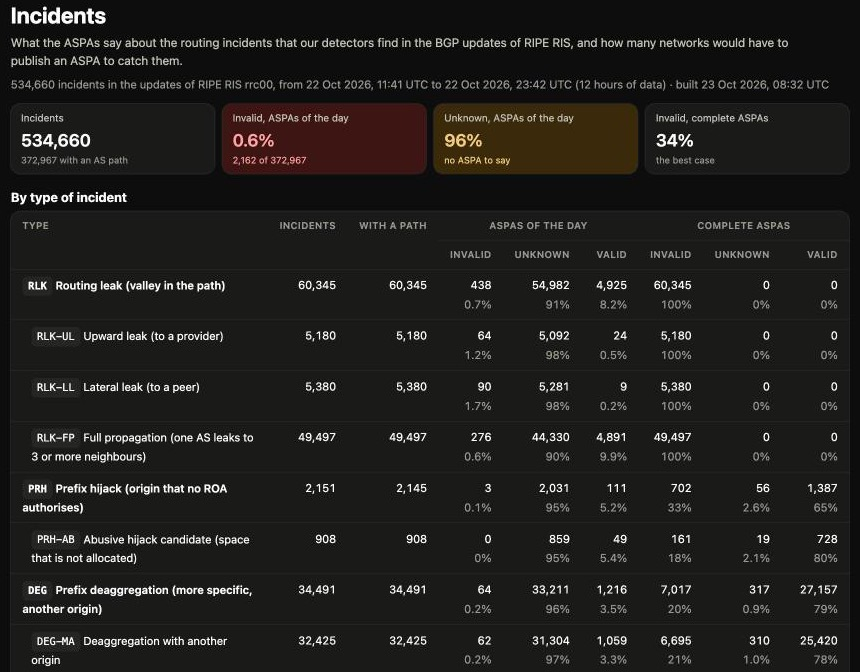
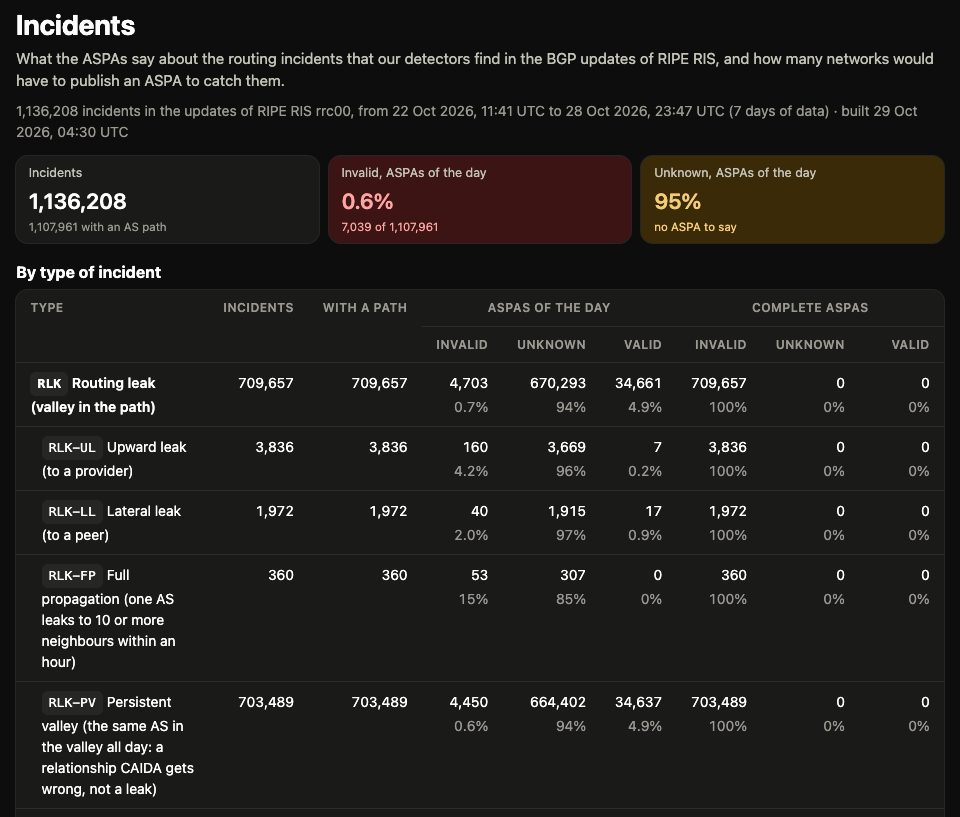
Screenshots of the Incidents page, its chart, the routing registry and the tromboning test (with RIPE Atlas) taken again, with the descriptions in the README

diff --git a/README.md b/README.md
@@ -30,7 +30,7 @@
 
 <table>
   <tr>
-    <td width="50%"><img src="assets/screenshots/lookup-light.jpg" alt="Looking up AS680: its own ASPA and the ASPAs that name it as a provider, with its history and the AS path check below"></td>
+    <td width="50%"><img src="assets/screenshots/lookup-light.jpg" alt="Looking up AS680: its own ASPA and the ASPAs that name it as a provider, with its history"></td>
     <td width="50%"><img src="assets/screenshots/statistics-dark.jpg" alt="The statistics page in the dark theme: ASPAs over time, stacked by RIR, and the other charts"></td>
   </tr>
   <tr>
@@ -136,10 +136,10 @@
     <td colspan="2" align="center"><sub>Availability by month and the alerts on the status page</sub></td>
   </tr>
   <tr>
-    <td colspan="2" align="center"><img src="assets/screenshots/tromboning-dark.jpg" width="60%" alt="Tromboning of AS41327: the reading first (no trombone seen), then a row for each of twelve probes in Italy with the networks on the way and the round trip"></td>
+    <td colspan="2" align="center"><img src="assets/screenshots/tromboning-dark.jpg" width="60%" alt="Tromboning of AS41327: the reading first (no trombone seen, one probe not where it is said to be), then a row for each probe of Globalping and RIPE Atlas in Italy with the networks on the way and the round trip"></td>
   </tr>
   <tr>
-    <td colspan="2" align="center"><sub>Tromboning, measured: twelve probes in the country, the reading first</sub></td>
+    <td colspan="2" align="center"><sub>Tromboning, measured: probes of Globalping and RIPE Atlas in the country, each checked for its place, the reading first</sub></td>
   </tr>
   <tr>
     <td colspan="2" align="center"><img src="assets/screenshots/tromboning-pair-dark.jpg" width="70%" alt="Tromboning of AS41327 over IPv4 and IPv6 on the same probes: the reading of each family first (no trombone seen), the comparison of the two and a row for each probe"></td>
@@ -148,8 +148,8 @@
     <td colspan="2" align="center"><sub>Tromboning, IPv4 and IPv6 on the same probes: the reading of each family first, the comparison after</sub></td>
   </tr>
   <tr>
-    <td width="50%"><img src="assets/screenshots/incidents-dark.jpg" alt="The Incidents page: 534,660 incidents of one day of rrc00, the tiles (Invalid with the ASPAs of the day 0.6%, Unknown 96%) and the table by type, with the types of the survey under each class"></td>
-    <td width="50%"><img src="assets/screenshots/incidents-chart-dark.jpg" alt="The chart of the Incidents page: the share of the incidents that would be Invalid against the share of the networks that publish an ASPA, the biggest networks first or in random order"></td>
+    <td width="50%"><img src="assets/screenshots/incidents-dark.jpg" alt="The Incidents page: 1,136,208 incidents in seven days of rrc00, the tiles (Invalid with the ASPAs of the day 0.6%, Unknown 95%) and the table by type, with the types of the survey under each class"></td>
+    <td width="50%"><img src="assets/screenshots/incidents-chart-dark.jpg" alt="The chart of the Incidents page: the share of the incidents that would be Invalid against the share of the networks that publish an ASPA, the networks with the most customers first or in random order, without the persistent valleys"></td>
   </tr>
   <tr>
     <td align="center"><sub>Incidents: the verdicts of the ASPAs by type of incident</sub></td>
